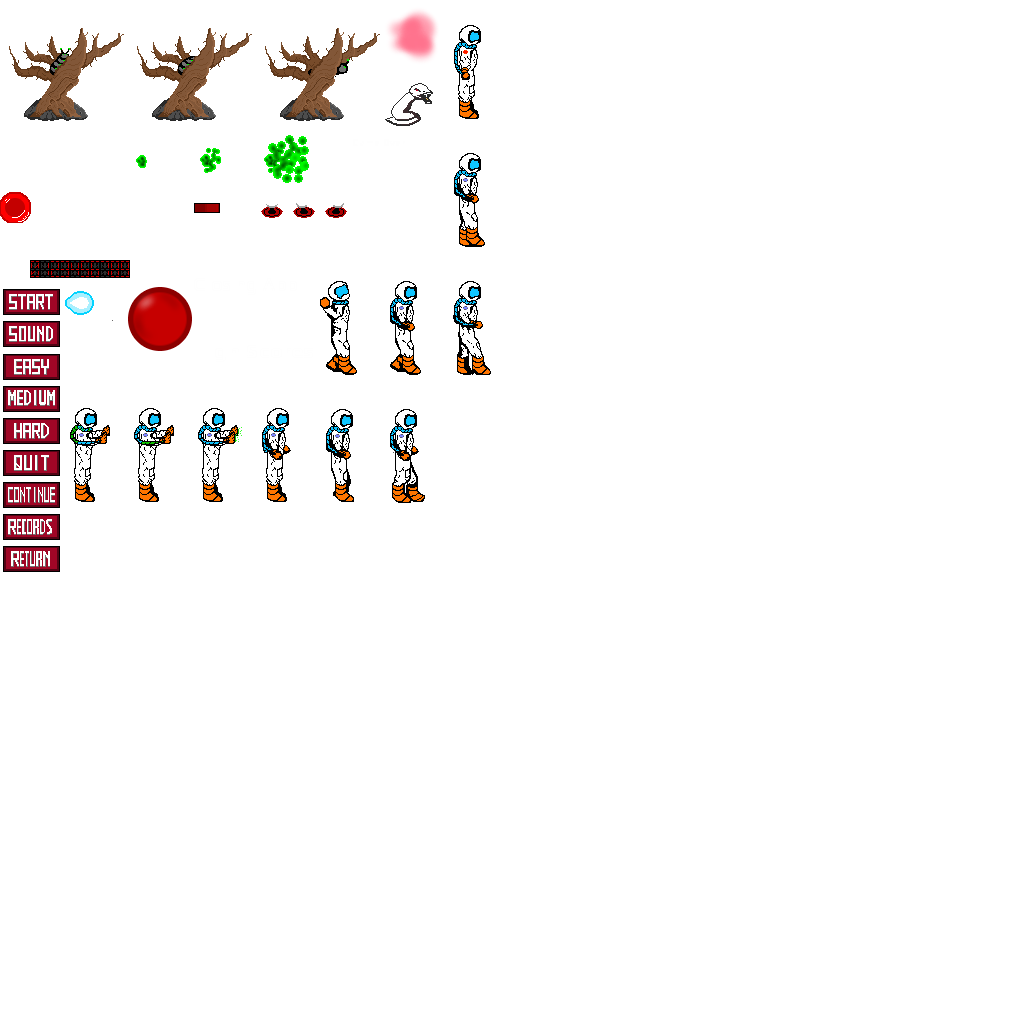
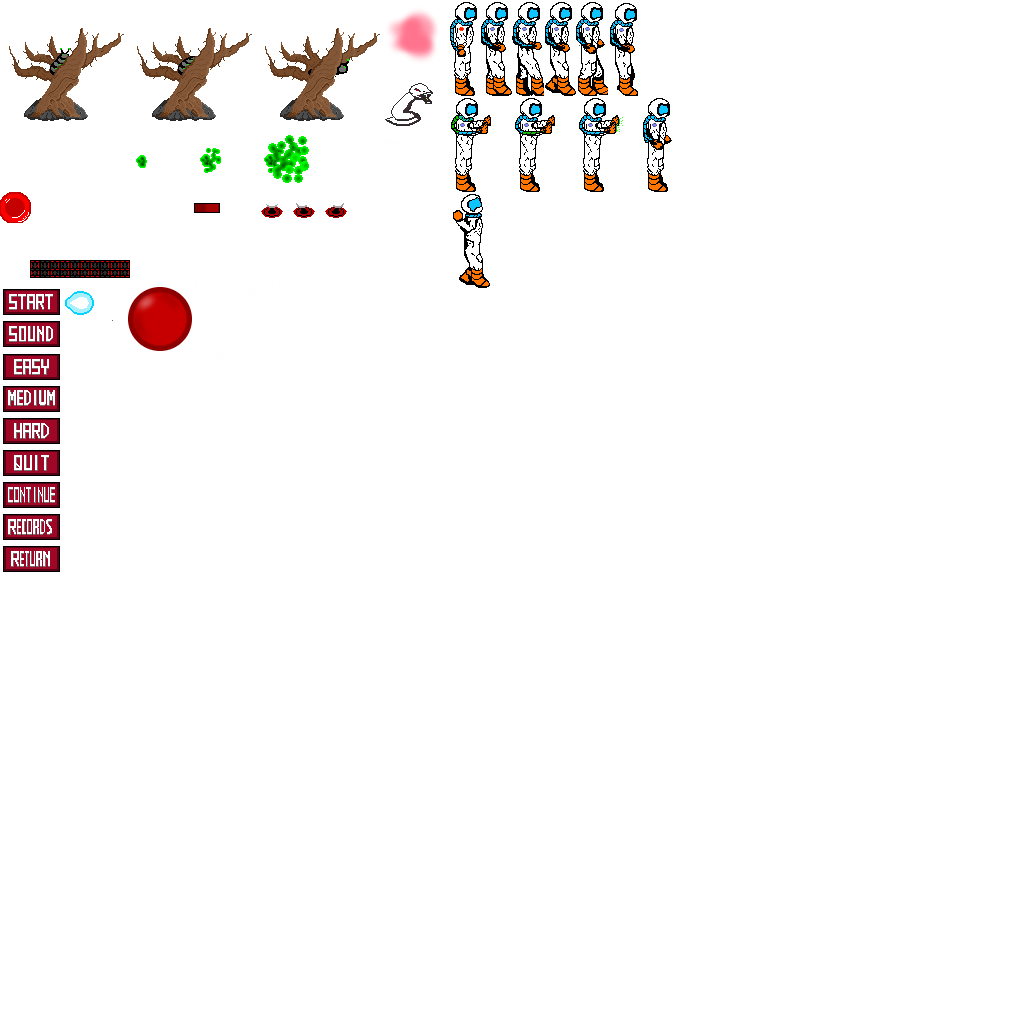
Se siguio con el cambio de usar un atlas de textura con mayor resolucion

diff --git a/app/src/main/java/com/jgame/game/GameRenderer.java b/app/src/main/java/com/jgame/game/GameRenderer.java
@@ -164,14 +164,14 @@ public class GameRenderer implements Renderer {
     public final static TextureData QUIT_BUTTON = new TextureData(0f,0.4375f,0.0625f,0.46875f);
     public final static TextureData CONTINUE_BUTTON = new TextureData(0f,0.46875f,0.0625f,0.5f);
     //Texturas de controles
-    public final static TextureData NEUTRAL_JOYSTICK_TEX = new TextureData(0.5f,0.375f,0.5625f,0.4375f);
-    public final static TextureData LEFT_JOYSTICK_TEX = new TextureData(0.5625f,0.375f,0.625f,0.4375f);
-    public final static TextureData RIGHT_JOYSTICK_TEX = new TextureData(0.625f,0.375f,0.6875f,0.4375f);
-    public final static TextureData ATTACK_LABEL_TEX = new TextureData(0.125f, 0.625f, 0.25f, 0.6875f);
-    public final static TextureData SCORE_LABEL_TEX = new TextureData(0.125f, 0.6875f, 0.25f, 0.75f);
-    public final static TextureData BUTTON_TEXTURE = new TextureData(0.25f, 0.5625f, 0.375f, 0.6875f);
-    public final static TextureData ARROW_TEXTURE = TextureDrawer.genTextureData(1.0f,8.05f,16);
-    public final static TextureData LEFT_ARROW_TEXTURE = new TextureData(0.0625f,0.5f,0,0.4372f);
+    public final static TextureData NEUTRAL_JOYSTICK_TEX = new TextureData(0.25f,0.1875f,0.28125f,0.21875f);
+    public final static TextureData LEFT_JOYSTICK_TEX = new TextureData(0.28125f,0.1875f,0.3125f,0.21875f);
+    public final static TextureData RIGHT_JOYSTICK_TEX = new TextureData(0.3125f,0.1875f,0.34375f,0.21875f);
+    public final static TextureData ATTACK_LABEL_TEX = new TextureData(0.0625f, 0.625f, 0.125f, 0.6875f);
+    public final static TextureData SCORE_LABEL_TEX = new TextureData(0.125f, 0.34375f, 0.25f, 0.375f);
+    public final static TextureData BUTTON_TEXTURE = new TextureData(0.125f, 0.28125f, 0.1875f, 0.34375f);
+    public final static TextureData ARROW_TEXTURE = new TextureData(0,0.21875f,0.03125f,0.25f);
+    public final static TextureData LEFT_ARROW_TEXTURE = new TextureData(0.03125f,0.25f,0,0.21875f);
 
     public static final ColorData ATTACK_COLOR = new SimpleDrawer.ColorData(0.85f,0.109f,0.207f,0.65f);
     public static final ColorData HITTABLE_COLOR = new SimpleDrawer.ColorData(0,0.75f,0,0.65f);

diff --git a/app/src/main/java/com/jgame/elements/MainCharacter.java b/app/src/main/java/com/jgame/elements/MainCharacter.java
@@ -69,6 +69,8 @@ public class MainCharacter extends GameCharacter {
         public abstract boolean isCancellable();
     }
 
+
+    //IDLE Y MOVING EMPIEZAN EN 14,0 1/32 Y SON DE 3X1
     public final static int FRAMES_TO_GAME_OVER = 65;
     public final static TextureData IDLE_TEXTURE = new TextureData(0.875f,0f,1,0.25f);
     public final static TextureData RECOVERY_SUCCESS_1 = new TextureData(0.25f, 0.75f, 0.375f, 1f);
